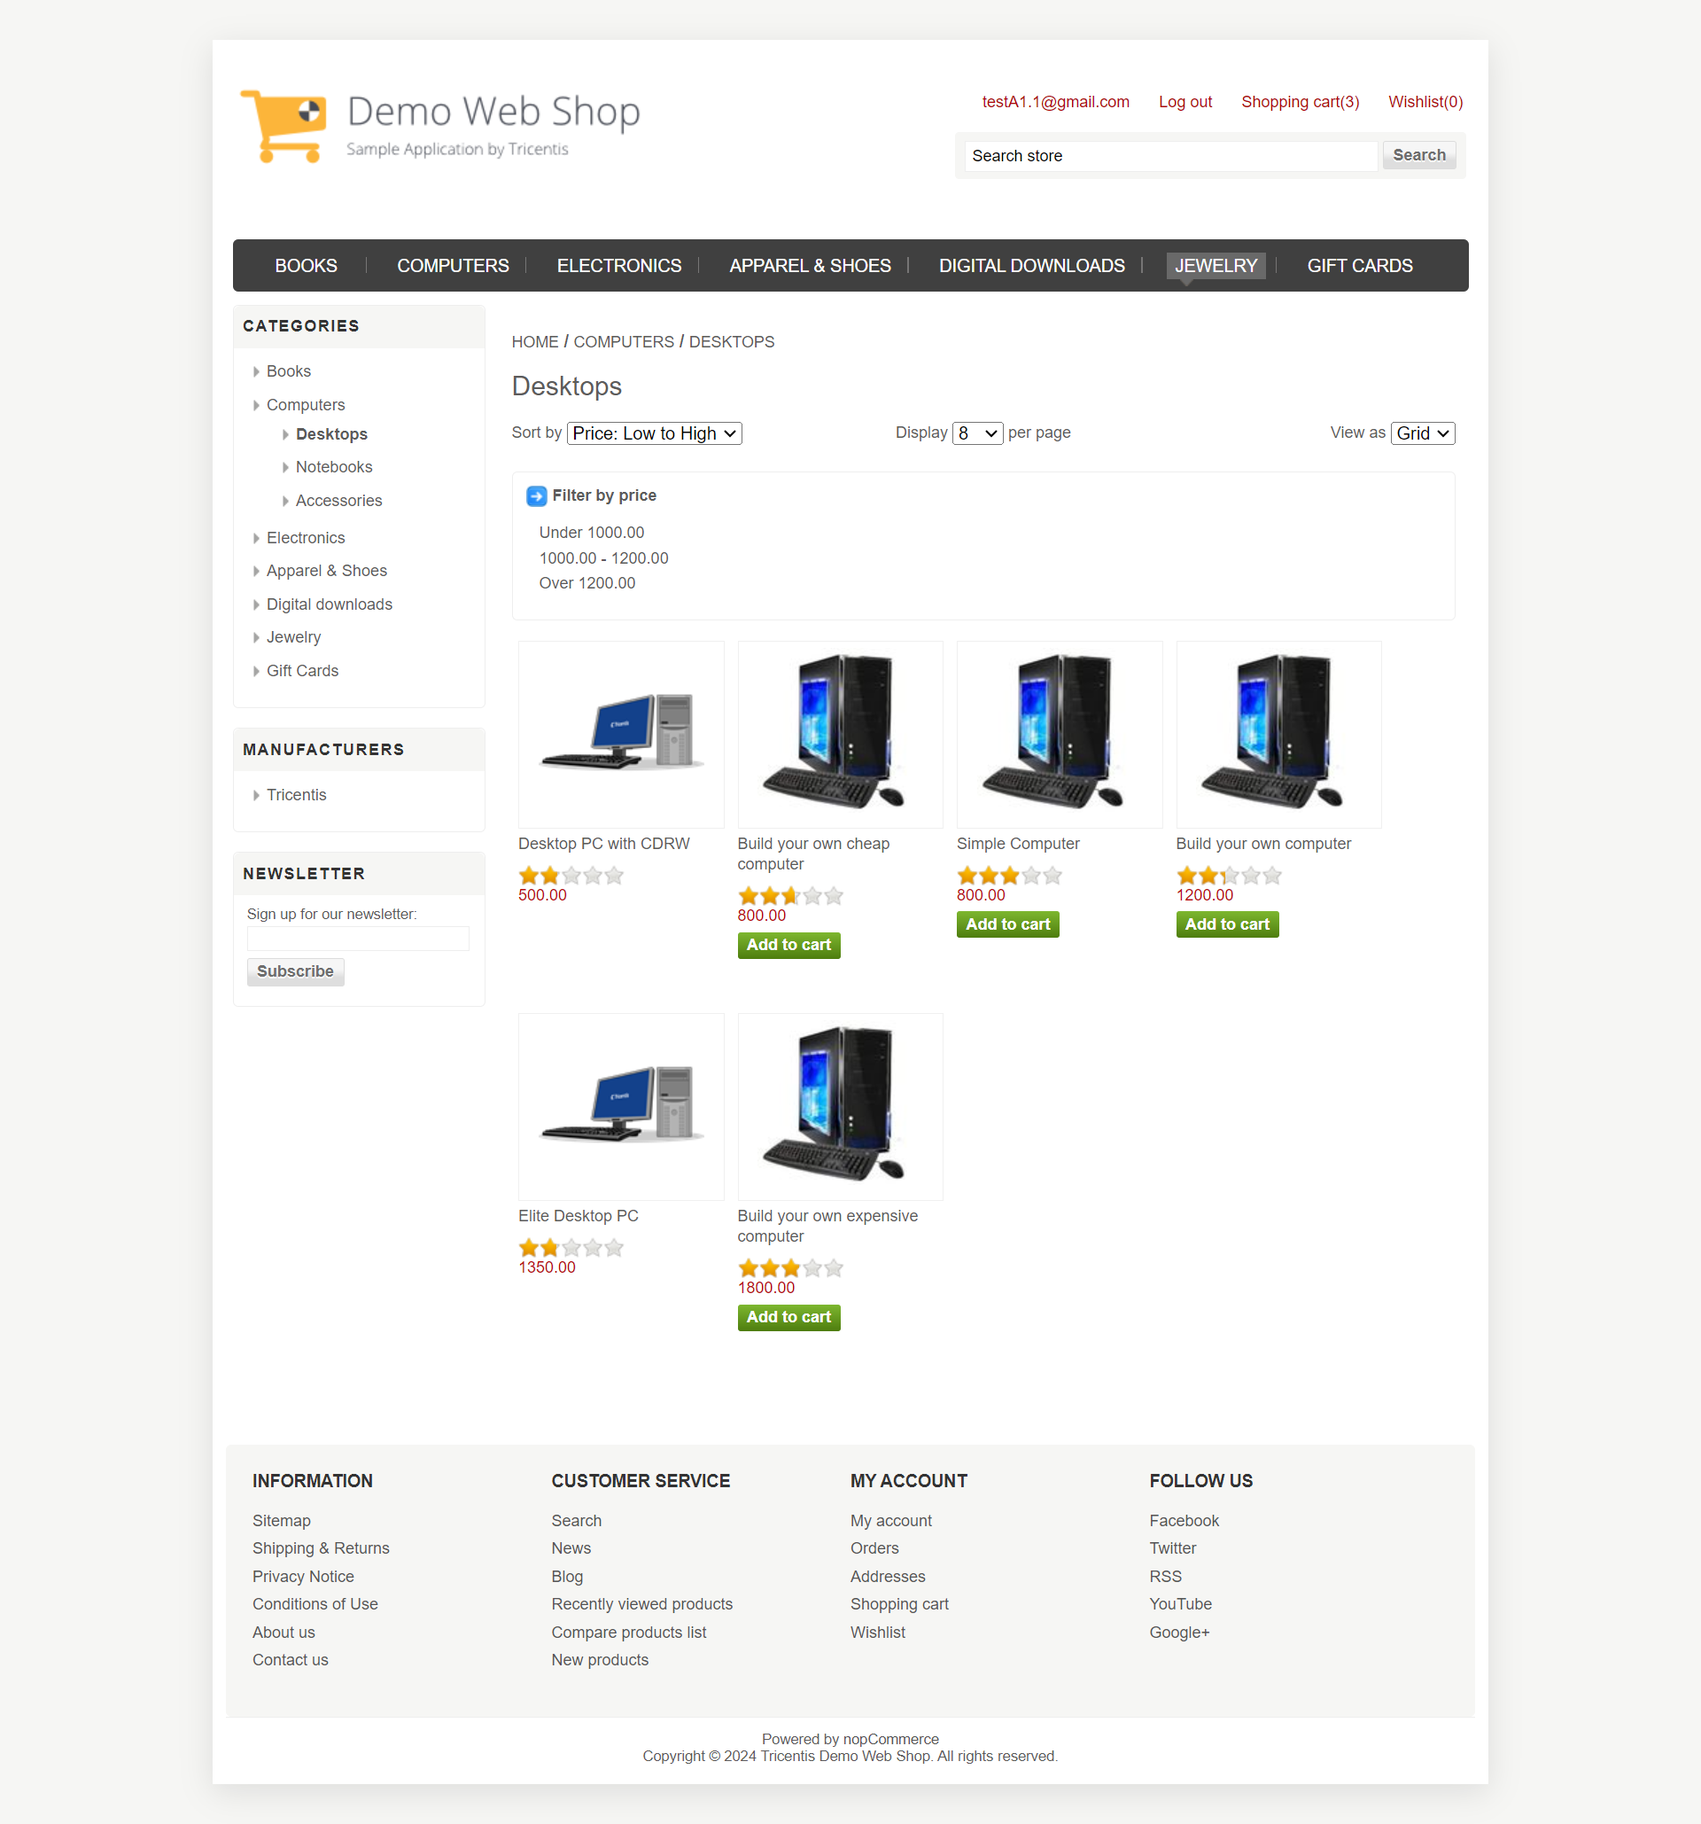
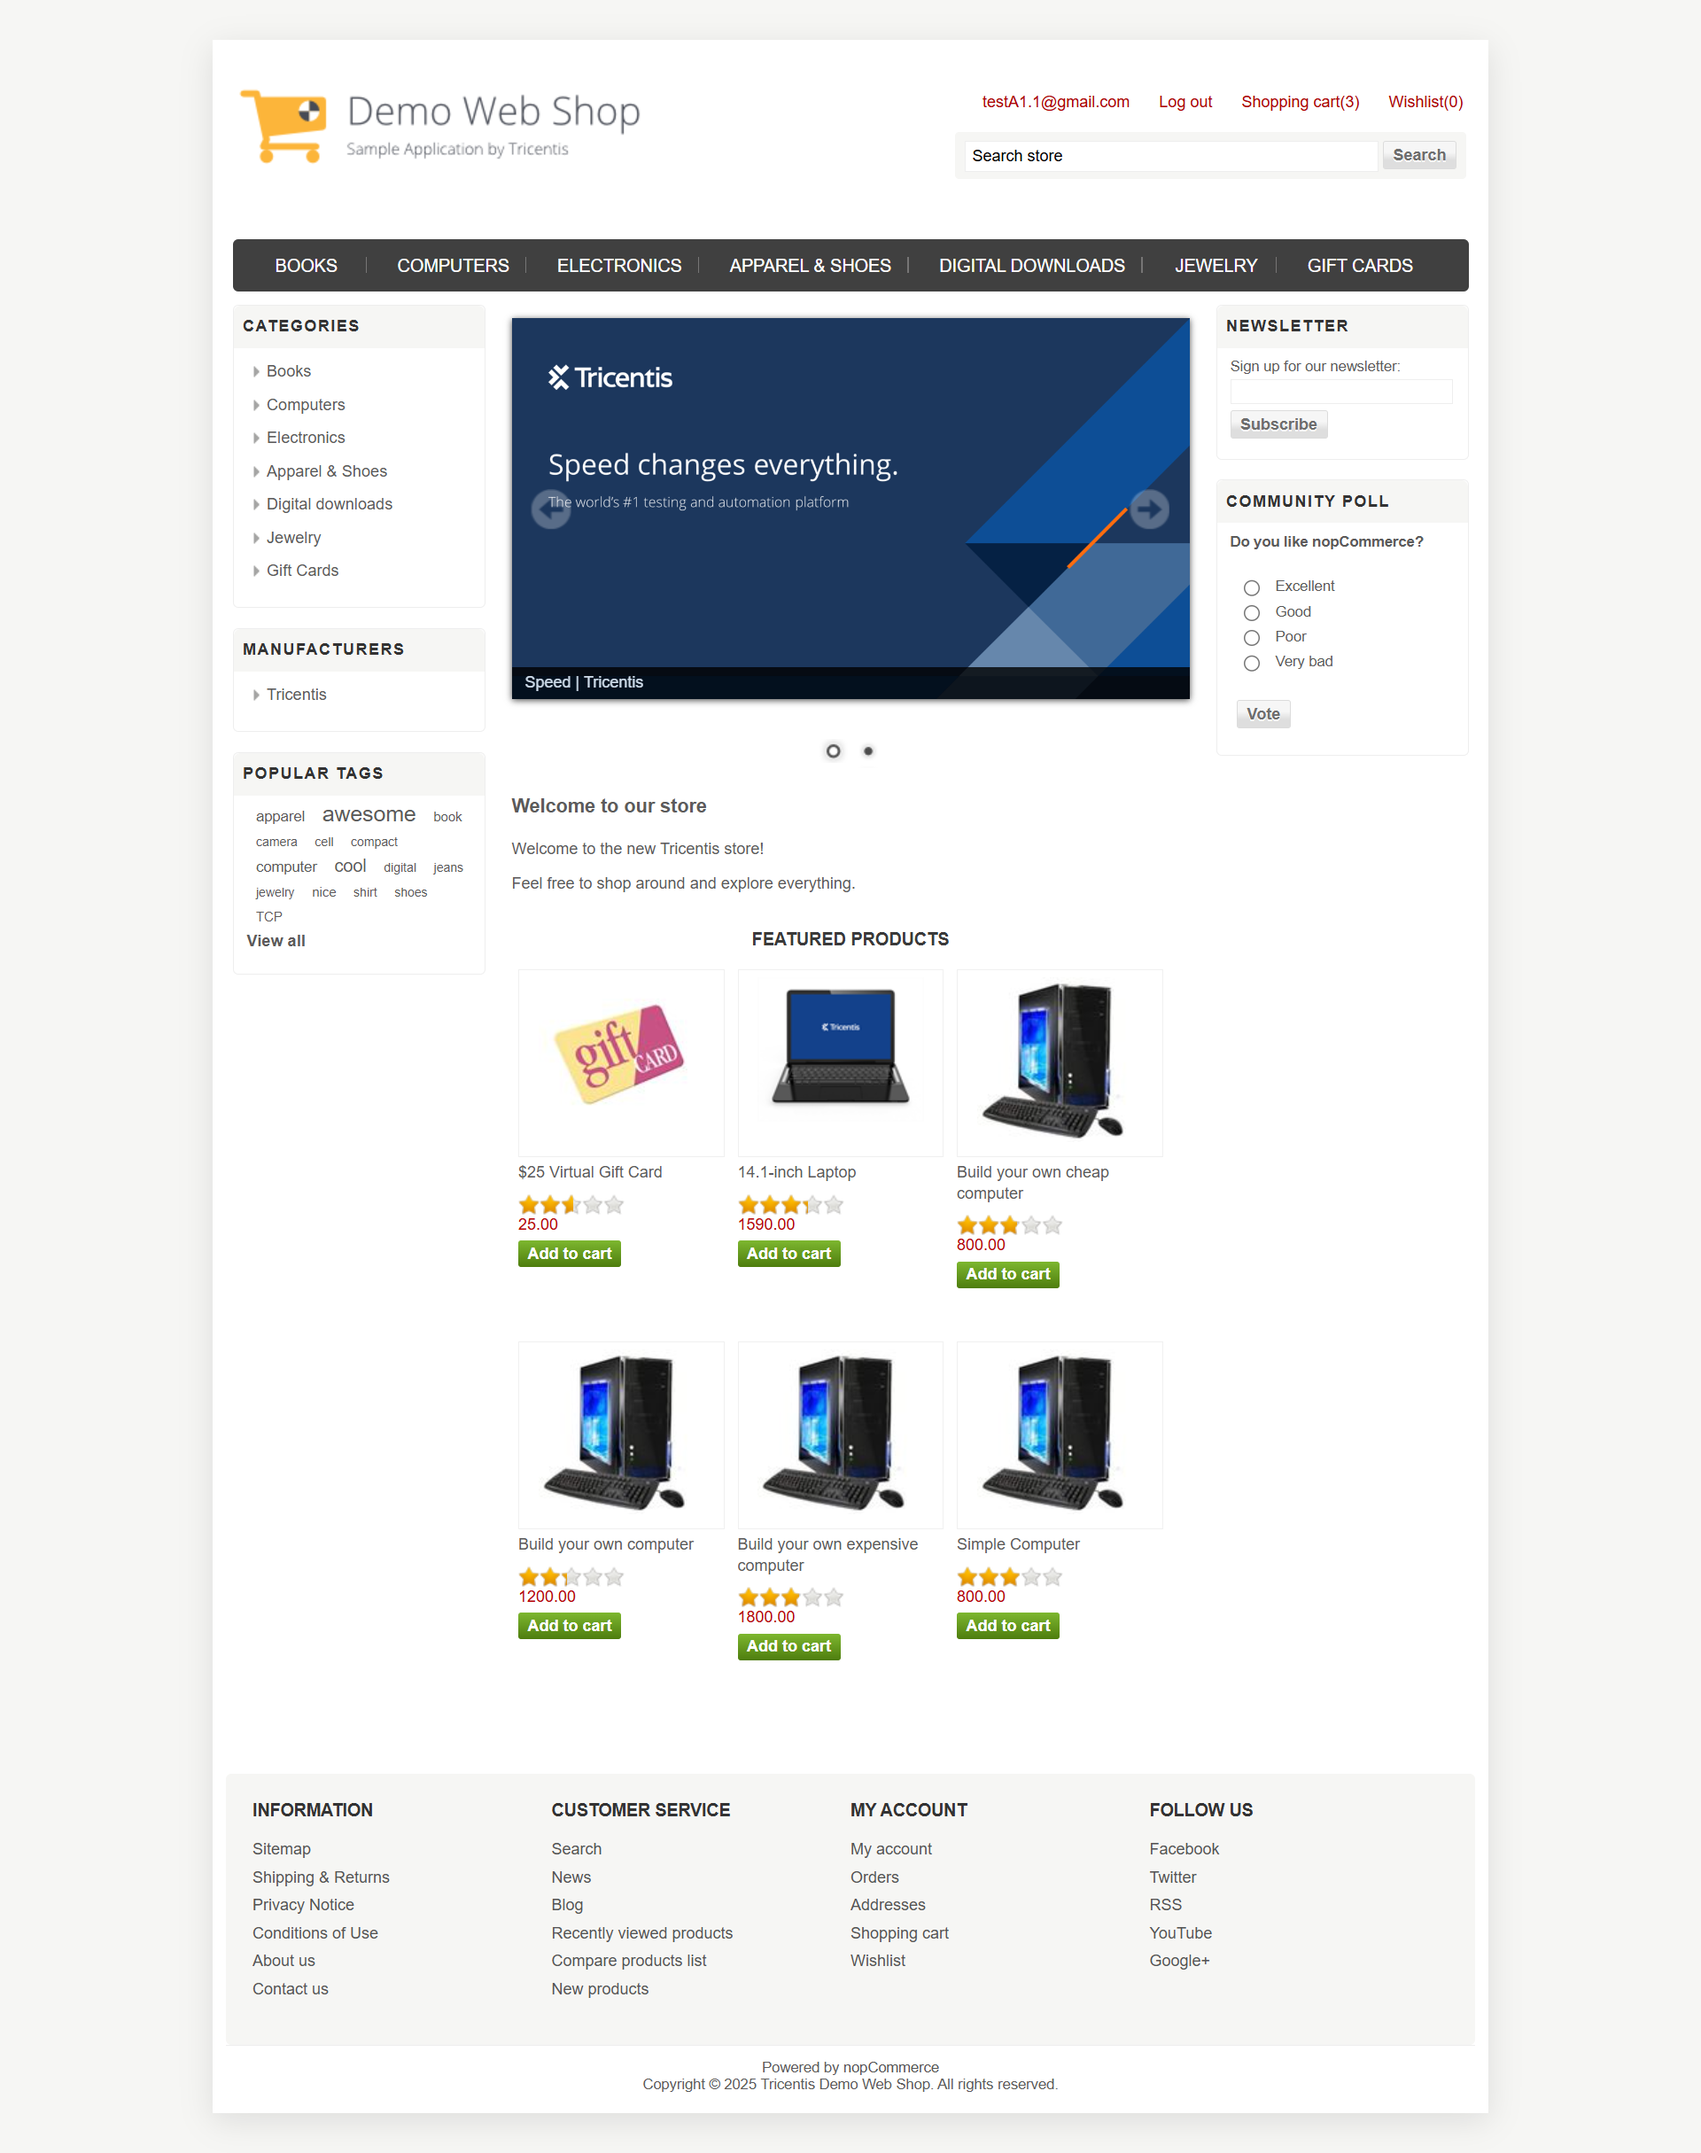
ChromeDriver headless mode added

diff --git a/src/main/java/Factory/DriverFactory.java b/src/main/java/Factory/DriverFactory.java
@@ -12,6 +12,7 @@ import java.util.concurrent.TimeUnit;
 import org.apache.log4j.Logger;
 import org.apache.log4j.PropertyConfigurator;
 import org.openqa.selenium.chrome.ChromeDriver;
+import org.openqa.selenium.chrome.ChromeOptions;
 import org.openqa.selenium.edge.EdgeDriver;
 import org.openqa.selenium.firefox.FirefoxDriver;
 import org.openqa.selenium.remote.RemoteWebDriver;
@@ -79,6 +80,17 @@ public class DriverFactory {
 			driver = new EdgeDriver();
 			driverTl.set(driver);
 			log.info("Edge browser initialized");
+			break;
+		case "chromeGitHubActions":
+			ChromeOptions cp = new ChromeOptions();
+			cp.addArguments("--headless");
+			cp.addArguments("--disable-gpu");
+			cp.addArguments("--no-sandbox");
+			
+			WebDriverManager.chromedriver().setup();
+			driver = new ChromeDriver(cp);
+			driverTl.set(driver);
+			log.info("Chrome Browser initialized");
 			break;
 		default:
 			System.out.println("Please pass correct browser name");
